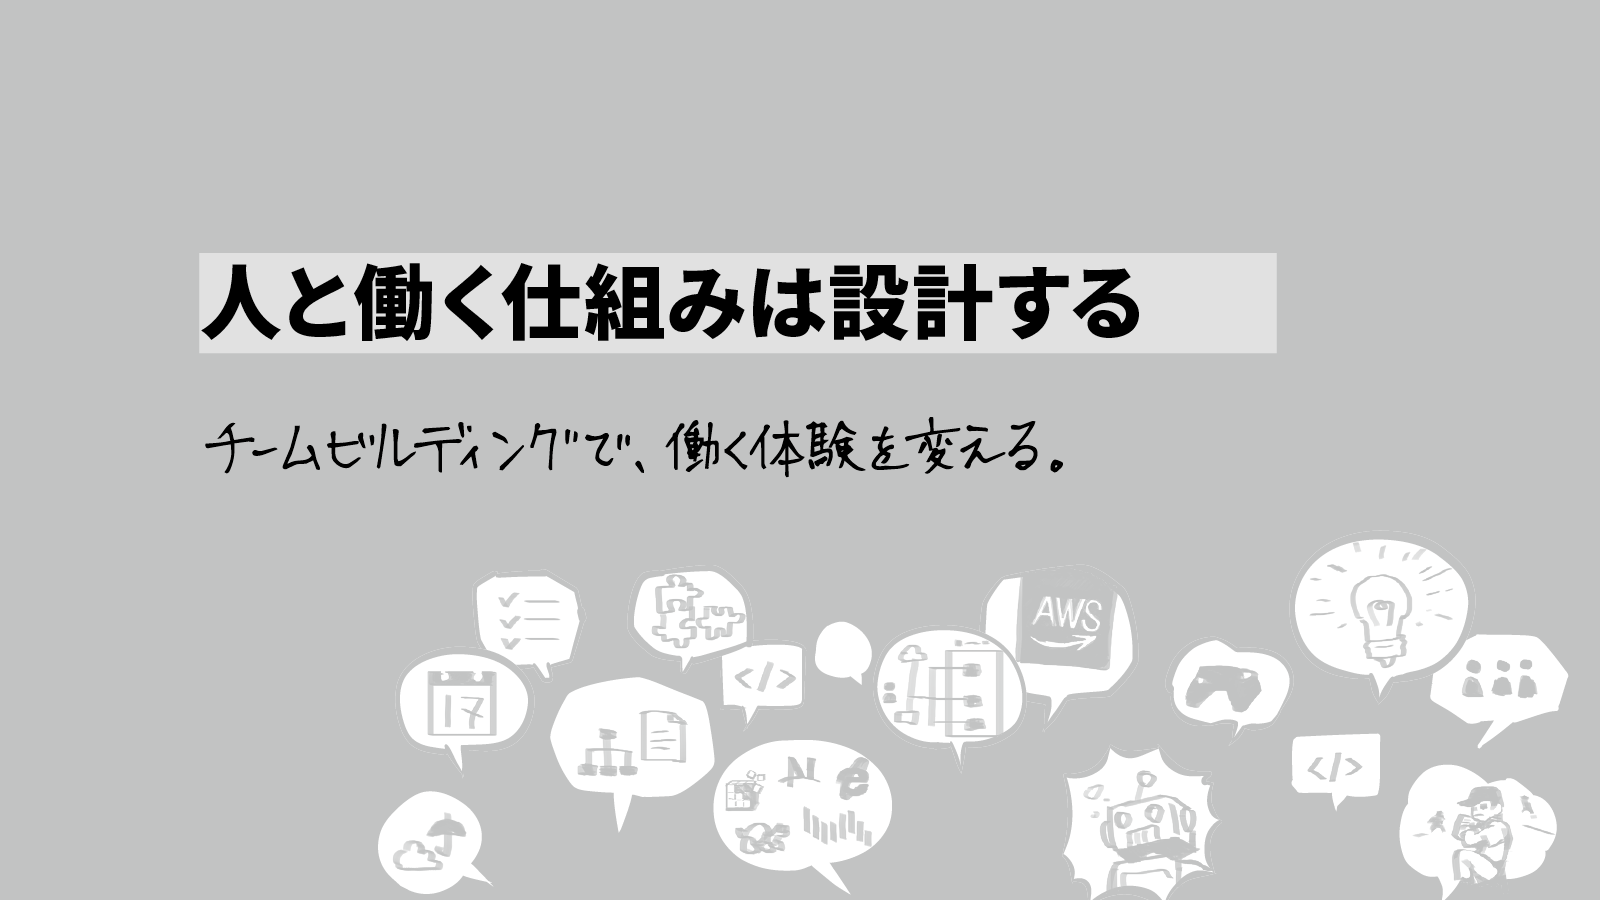
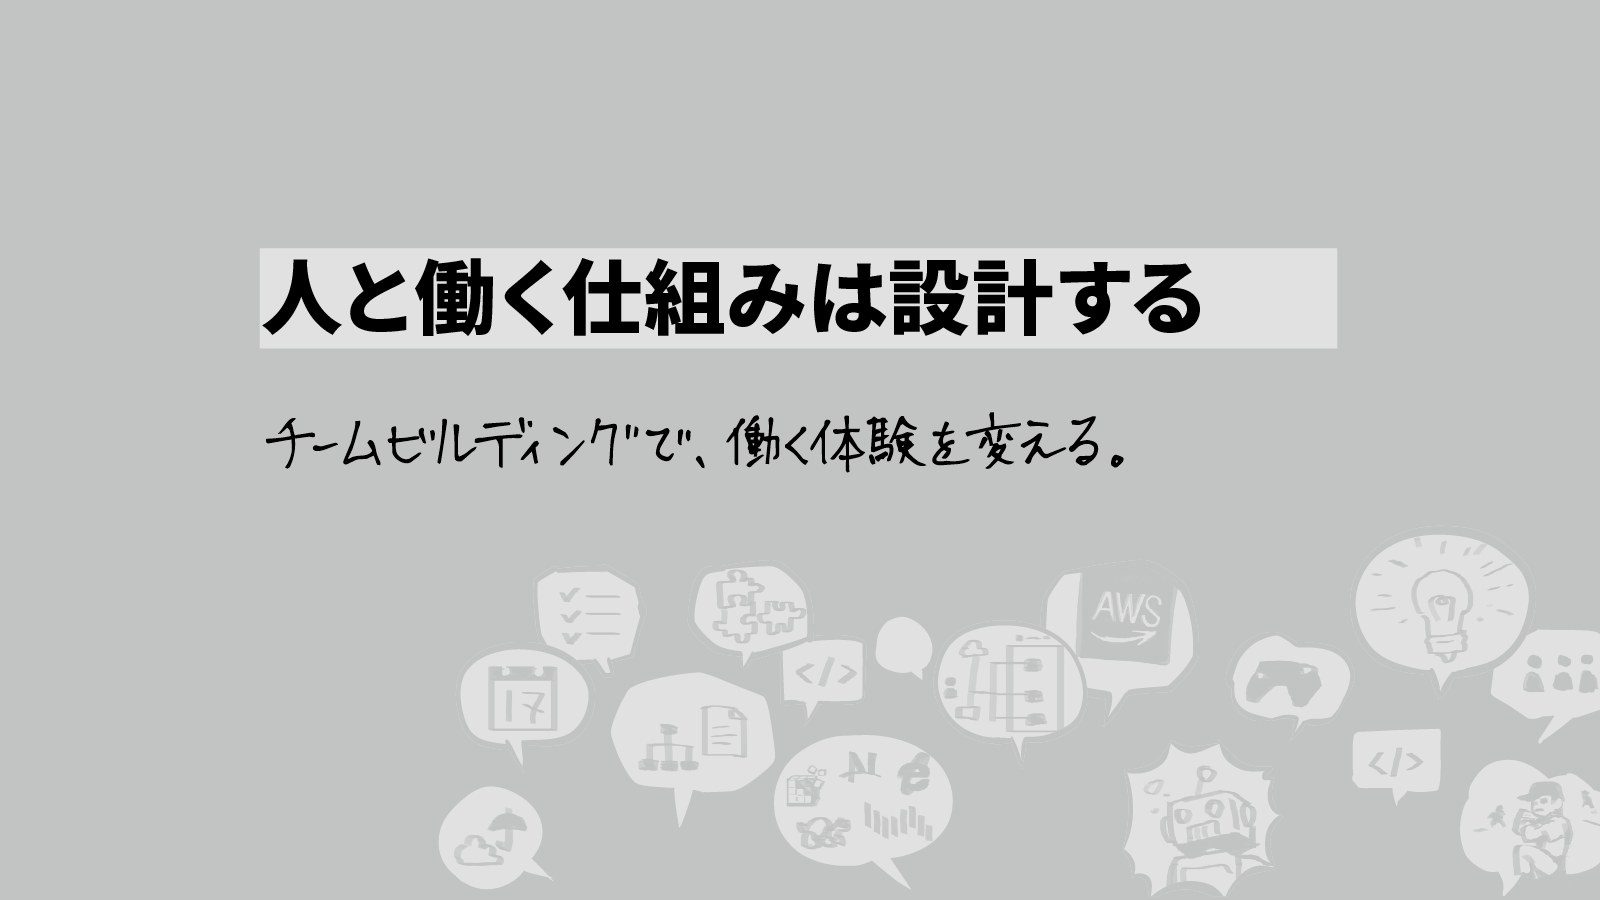
Fix: zine更新 #55

Changed region(s): [[0.2188, 0.5911, 1.0, 1.0], [0.125, 0.2489, 0.8438, 0.4044], [0.125, 0.4667, 0.6875, 0.5289]]

diff --git a/src/styles/_variable/mixin/_mq.scss b/src/styles/_variable/mixin/_mq.scss
@@ -7,7 +7,7 @@
  *
  * 利用可能なプリセット値:
  * - narrow: 480px ... スマートフォン
- * - middle: 900px ... タブレット
+ * - middle: 1280px ... タブレット
  * - wide: 1440px ... ラップトップPC
  * - maximum: 1680px ... デスクトップPC
  *
@@ -36,7 +36,7 @@
 
 @mixin mq($preset: null, $from: null, $until: null) {
   $narrow: 480px;
-  $middle: 900px;
+  $middle: 1280px;
   $wide: 1440px;
   $maximum: 1680px;
 

diff --git a/src/app/(contents)/zine/_parts/Zine.module.scss b/src/app/(contents)/zine/_parts/Zine.module.scss
@@ -11,7 +11,7 @@
     margin-top: var(--spacing-3xl);
   }
 
-  @include mq(fromWide) {
+  @include mq(fromLaptop) {
     display: grid;
     grid-template-columns: rem(630 - 64 - 64) 1fr;
     max-width: rem(1280);
